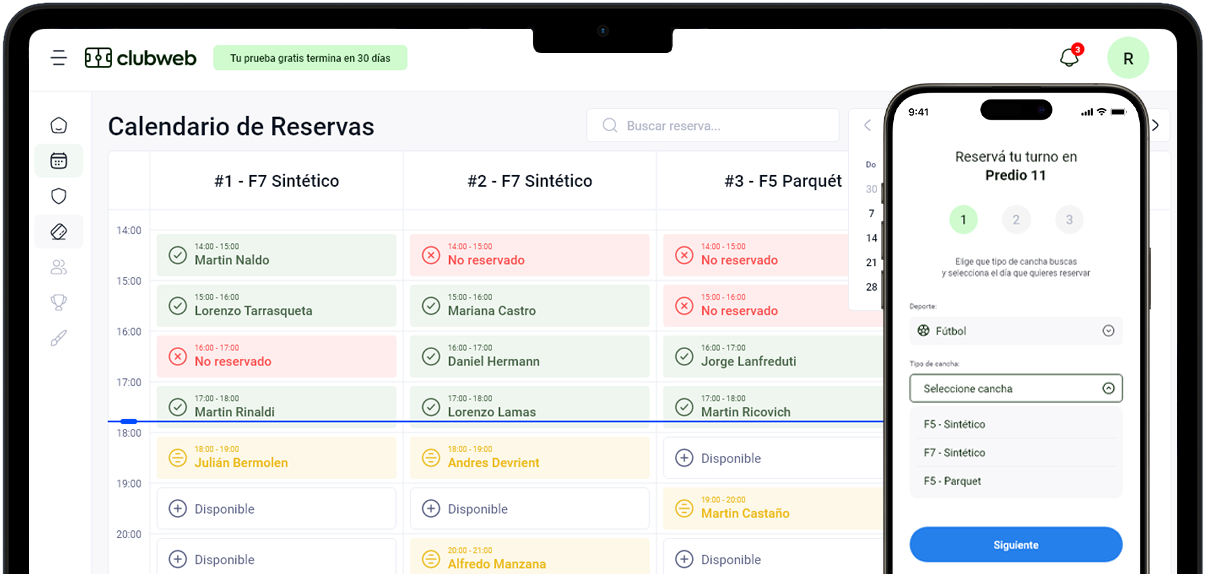
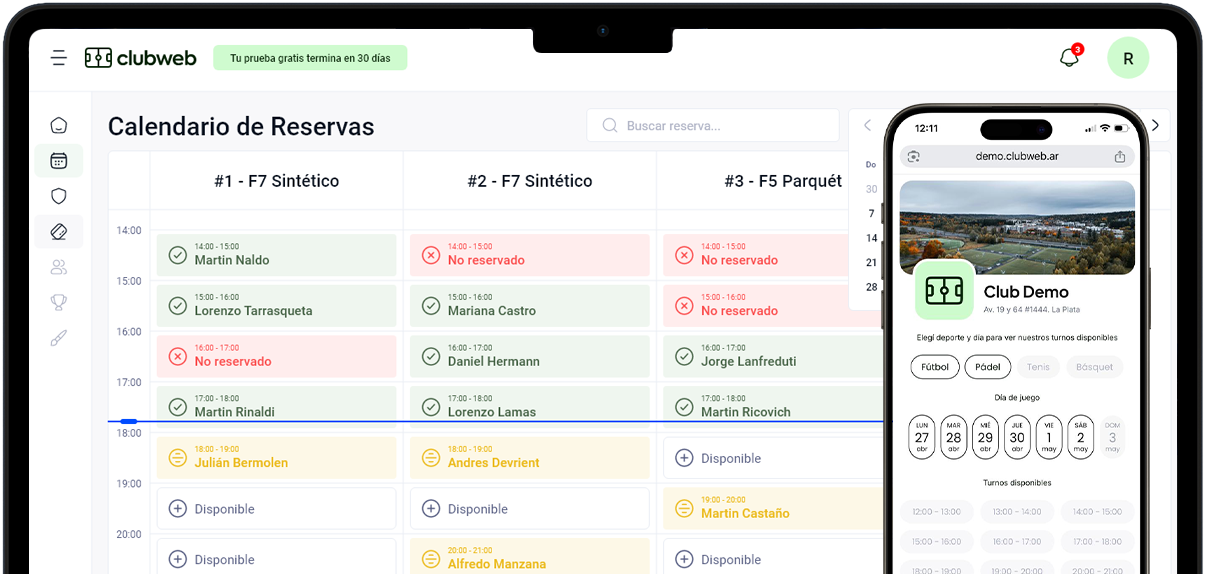
changes: feature img and hero img

Changed region(s): [[0.7062, 0.1185, 0.9519, 0.7997], [0.7369, 0.8885, 0.9519, 1.0], [0.7676, 0.8293, 0.8905, 0.8589]]

diff --git a/index.html b/index.html
@@ -141,12 +141,12 @@
 								<div class="title-style">
 									<h2 class="main-title">Tu página de reservas <span>100% automatizada</span></h2>
 								</div> <!-- /.title-style-three -->
-								<p class="text-lg mt-25 mb-60 lg-mb-40">Tu propia web de reservas completamente automatizada. Reservas en 3 simples pasos con señas por MercadoPago</p>
+								<p class="text-lg mt-25 mb-60 lg-mb-40">Tu frente comercial con tu propia web de reservas completamente automatizada. Reservas rápidas y simples con señas por MercadoPago</p>
 								<a href="https://demo.clubweb.ar" target="_blank" class="btn-two fw-500">Ver demo</a>
 							</div> <!-- /.block-style-two -->
 						</div>
 						<div class="col-xl-5 col-lg-6 col-md-8 m-auto wow fadeInRight">
-							<div class="illustration-holder md-mt-30"><img src="images/lazy.svg" data-src="images/media/features-2.png" alt="" class="lazy-img ms-auto"></div>
+							<div class="illustration-holder md-mt-30"><img src="images/lazy.svg" data-src="images/media/features-1.png" alt="" class="lazy-img ms-auto"></div>
 						</div>
 					</div>
 				</div> 
